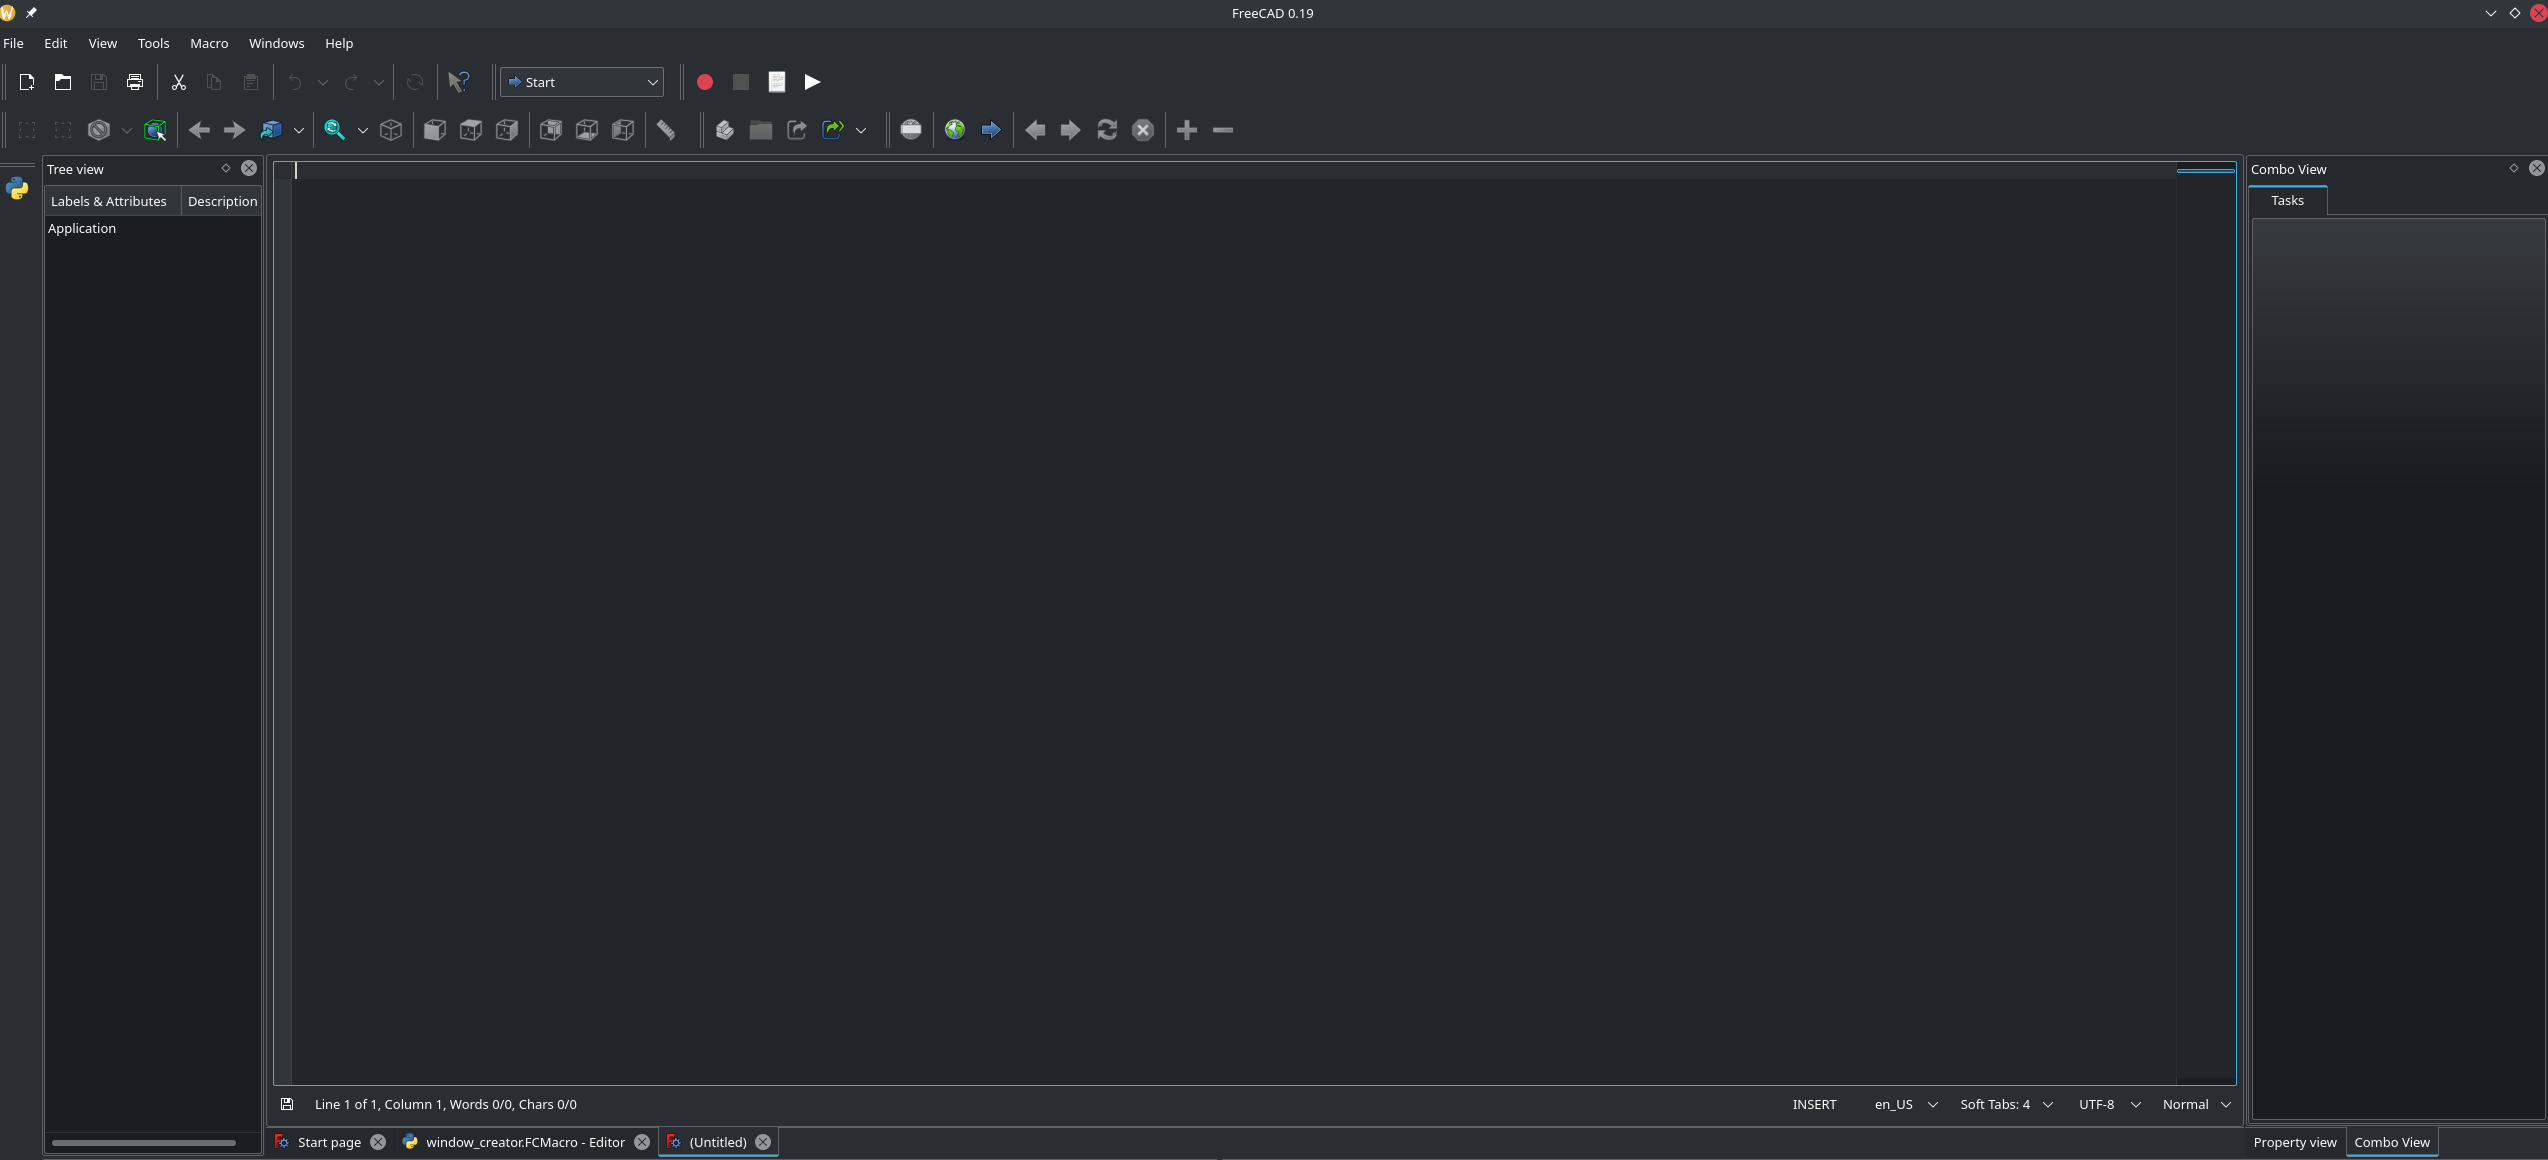
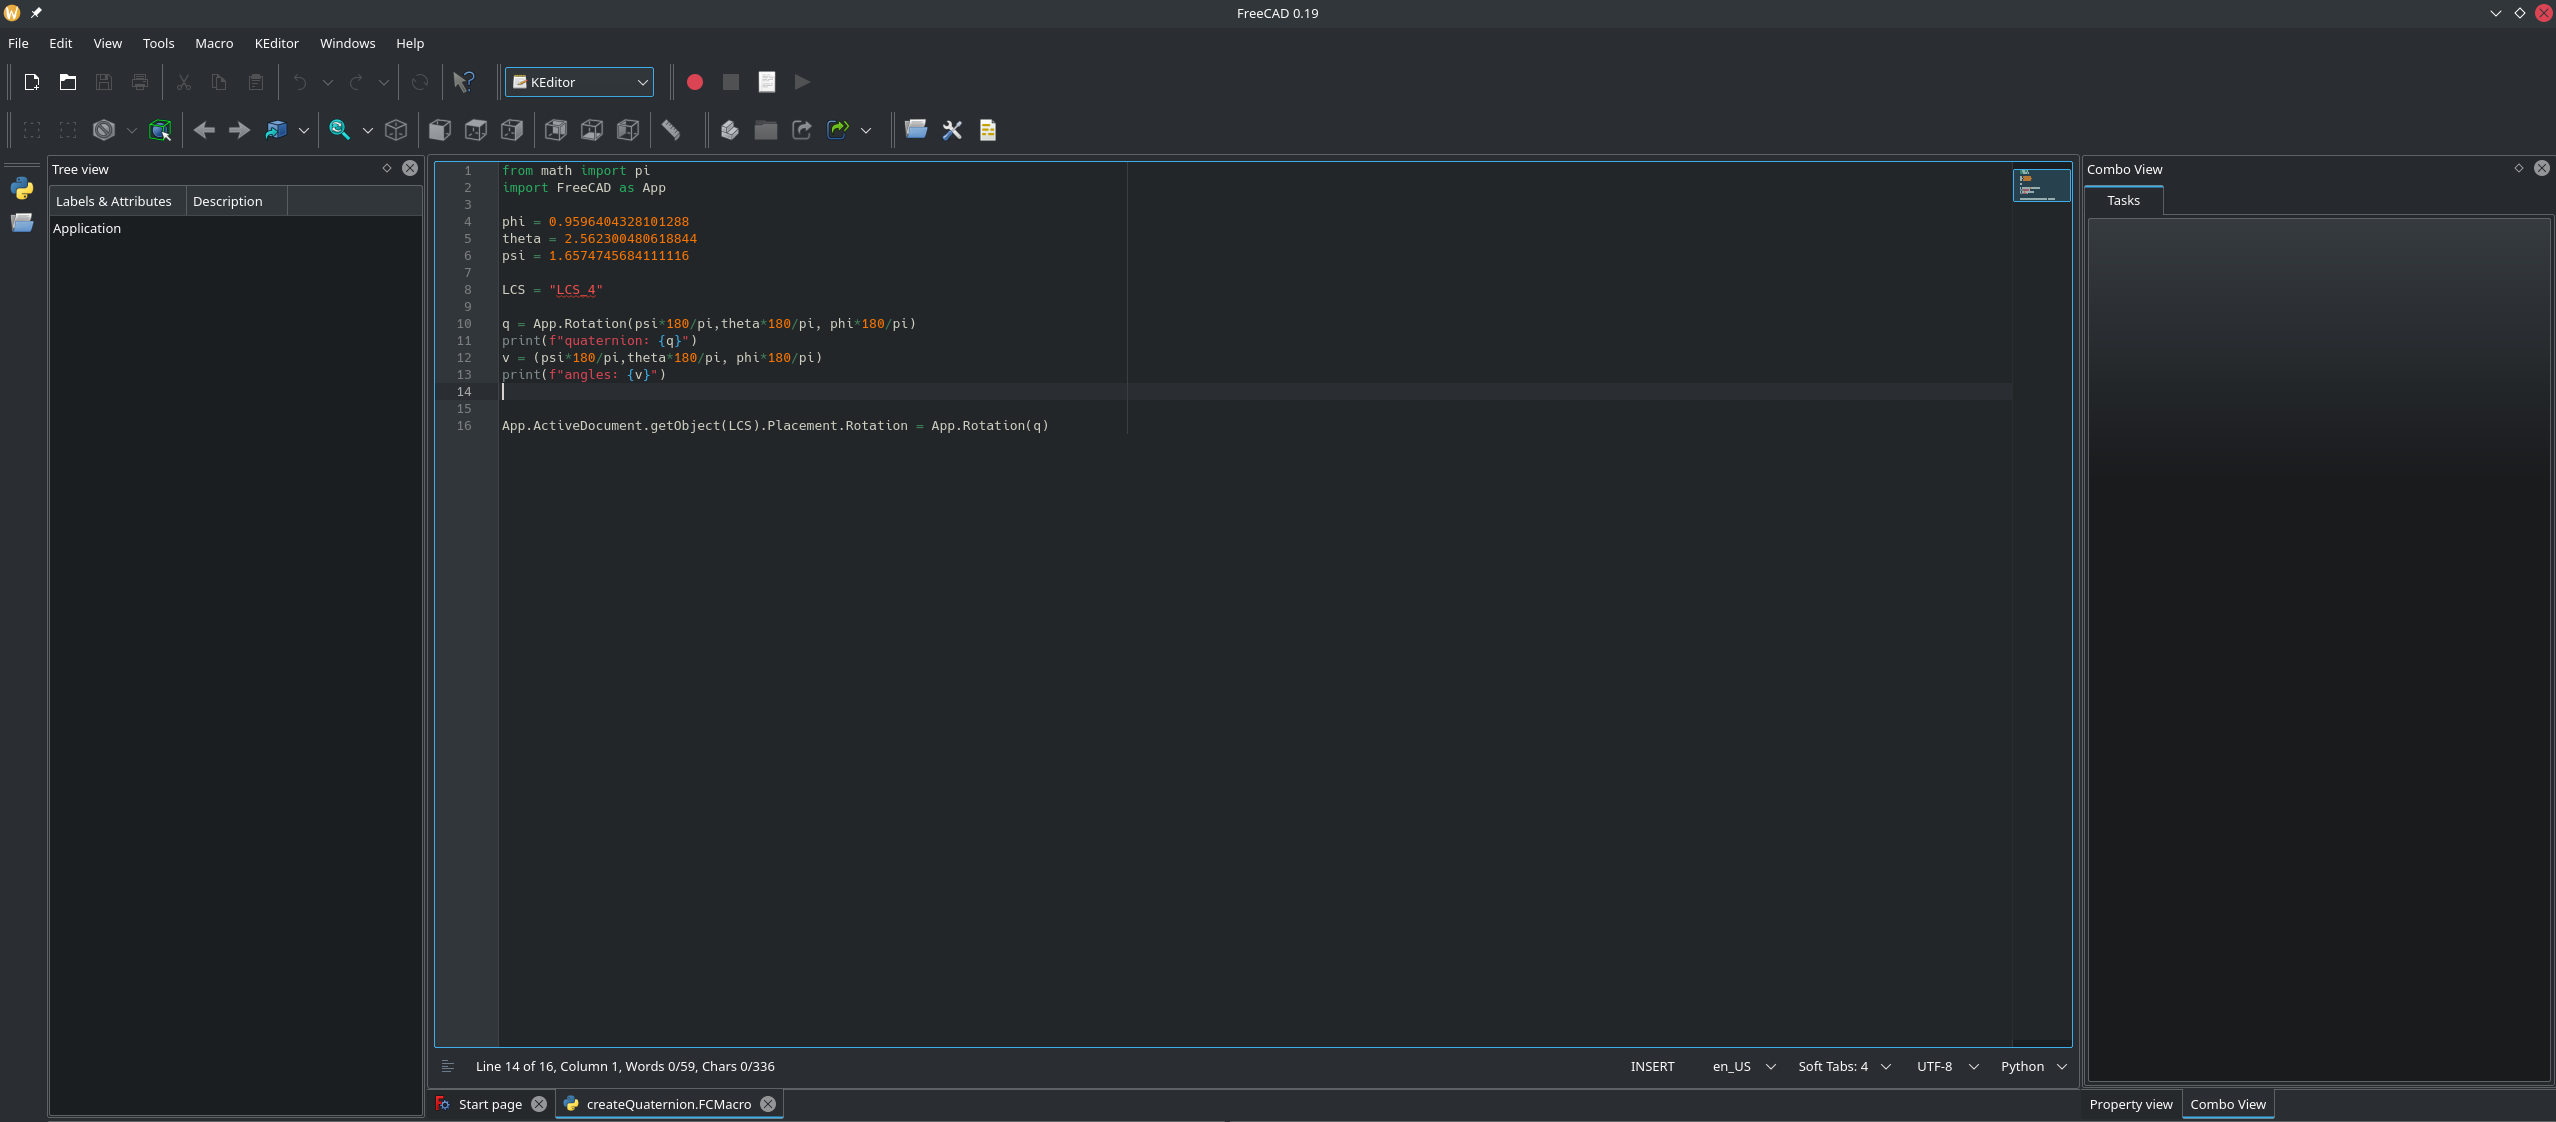
Updated documentation

diff --git a/setup.py b/setup.py
@@ -49,7 +49,7 @@ class build_ext(_build_ext):
 
 setup(
     name="KEditor",
-    version="0.4.0",
+    version="0.4.1",
     packages=[
         "KEditorView",
         "freecad",

diff --git a/README.md b/README.md
@@ -1,10 +1,10 @@
 # Overview
 This project uses shiboken2 to create python bindings of a QWidget containing
-KTextEditor. The python bindings then can be packaged into a python package,
-installed, and then loaded by FreeCAD.
+KTextEditor. This project is also configured as a FreeCAD workbench that uses the
+python bindings to edit macro files (or any text document).
 
 # How to install
-The python bindings and the python package can be build and installed by using
+The python bindings and the workbench can be build and installed by using
 the setup file:
 
 ```
@@ -16,41 +16,19 @@ The whole build system is really rough and may not work but it is a good initial
 guess of how to create python bindings that can be loaded by FreeCAD.
 
 
-# How to embed KTextEditor in FreeCAD
-After installing the python package created above, then loading it in FreeCAD is
-simple by using the following code:
-
-```python
-from PySide import QtGui
-from Editor.KEditor import KEditorView
-
-
-def getMainWindow():
-    toplevel = QtGui.QApplication.topLevelWidgets()
-    for i in toplevel:
-        if i.metaObject().className() == "Gui::MainWindow":
-            return i
-    raise Exception("No main window found")
-
-
-mw = getMainWindow()
-
-mdi=mw.findChild(QtGui.QMdiArea)
-sub=mdi.addSubWindow(KEditorView())
-sub.show()
-mw.update()
-```
-
-Then, it should create a new window with KTextEditor.
+# How to use KTextEditor in FreeCAD
+The installed python package is a FreeCAD workbench that contains the needed
+commands to open and edit python and macro files:
 
 ![](Resources/Embedded_KTextEditor.png)
 
-# Limitations
-Most of the code here is to build the python bindings and the python package so the
-resulting editor doesn't have that many features.
+Also, the workbench contains a command that opens the configuration dialog for
+KTextEditor which can be used to configure the style (colors, font, etc) for the
+editor as well as other settings like line numbers, spell checking, and more:
 
-1. Can't open and edit python/macro files yet. FreeCAD doesn't know about the
-embedded editor and instead it uses the built-in editor to open and edit python/macro
-files. So the embedded editor is not that useful yet.
-2. The embedded editor is a bare bones KTextEditor which doesn't contain some neat
+![](Resources/Configure.png)
+
+# Limitations
+1. The embedded editor is a bare bones KTextEditor which doesn't contain some neat
 features like a python lsp client. Hopefully it could be added later.
+2. The editor doesn't contain a debugger.
